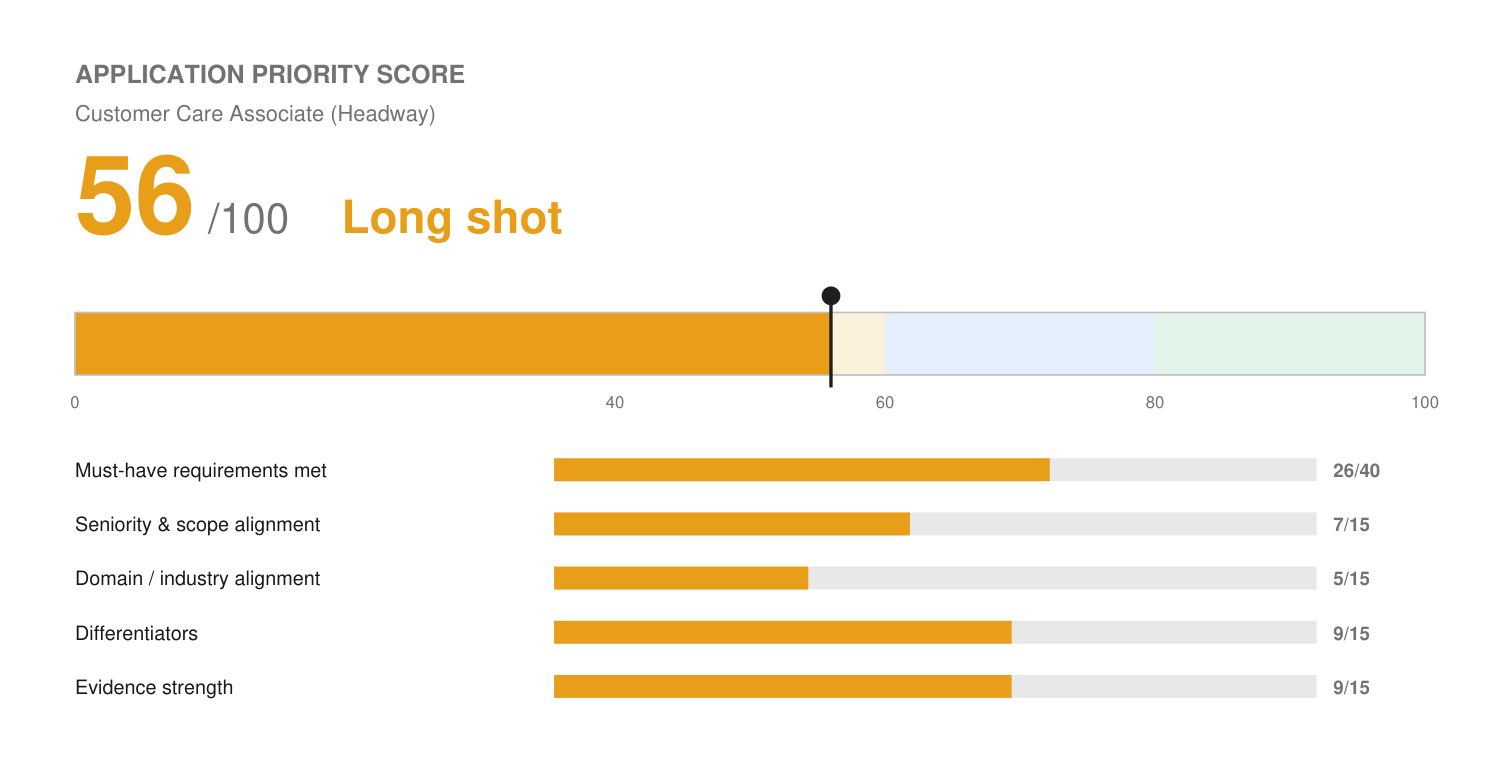
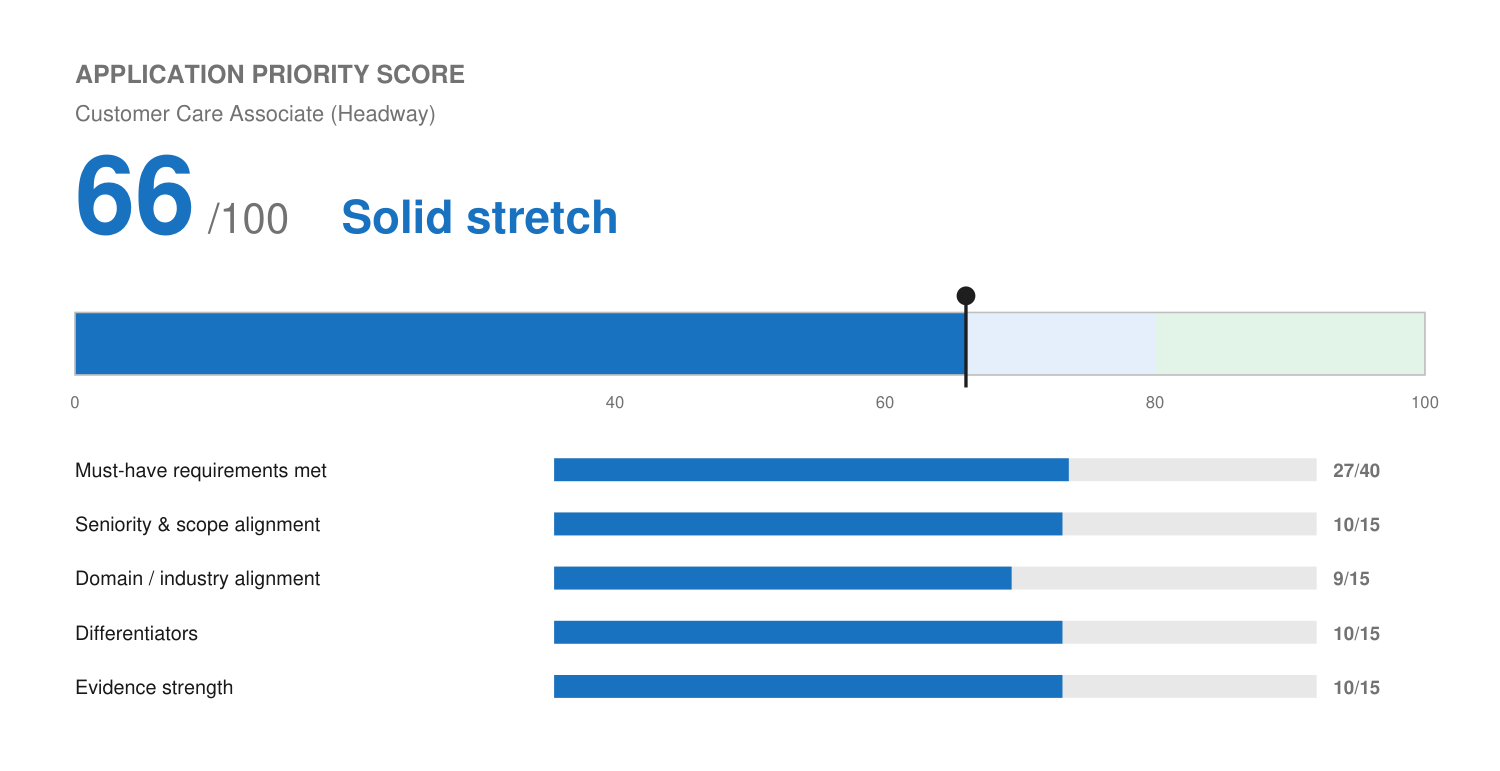
Correct master profile: Senior Directory is a healthcare directory; log ticket-volume comfort
Josh corrected two facts: Senior Directory (BDR, 2012-2016) was an online
healthcare business directory, giving him genuine prior healthcare-industry
exposure, and high-volume ticket/call/queue work is not a personal concern
given his BDR/AE calling background. Both are now recorded in
master-profile.md so future tailoring picks them up automatically.

Re-tailored the Headway application against the corrected profile: added
Senior Directory to the resume, updated the cover letter's healthcare
framing, and moved the fit score from 56 (long shot) to 66 (solid stretch).

Claude-Session: https://claude.ai/code/session_01UUTNhDEKkqfHCsStddFPAS

diff --git a/applications/headway-customer-care-associate/match-report.md b/applications/headway-customer-care-associate/match-report.md
@@ -4,7 +4,17 @@
 **Company:** Headway
 **Location / Mode:** Remote, USA
 **Pay:** $54,000–$80,000/year
-**Date:** September 7, 2026
+**Date:** September 7, 2026 (updated same day after two profile corrections from Josh)
+
+---
+
+## Update note
+
+After the first pass, Josh corrected two things that materially change this report:
+1. Senior Directory (BDR, 2012–2016) was an online **healthcare business directory**, not a generic directory. This is genuine prior healthcare-industry exposure and is now on the resume and reflected below.
+2. High-volume ticket/queue work is explicitly **not a concern** for him, he's run comparable outbound-calling and warm-lead volume in prior BDR/AE roles. The earlier "worth being honest with yourself" scope flag is resolved and removed as a personal-comfort concern (the underlying seniority/scope observation below is a different, structural point, not a comfort question).
+
+Score moved from 56 ("Long shot") to 66 ("Solid stretch") as a result. Both corrections have also been logged in the master profile so they apply automatically to future applications (this one already reflects that, OneImaging's healthcare gap could be revisited too if you want it redone).
 
 ---
 
@@ -13,33 +23,31 @@
 | Item | Classification | Notes |
 | :--- | :--- | :--- |
 | Remote, all US locations | Resume-evidenced | Matches your remote constraint. |
-| Weekend availability (Sat–Sun 8am–7pm ET coverage) | Resume-evidenced | Your profile already confirms evenings/weekends/holidays are acceptable for the right role. No conflict. |
+| Weekend availability (Sat–Sun 8am–7pm ET coverage) | Resume-evidenced | Confirmed acceptable per your standing profile note; also comfortable with the volume/pace itself. |
 | Quiet, private workspace with high-speed internet | Application-form requirement | Standard attestation; no known issue. |
 | E-Verify | Application-form requirement | Standard; no known issue. |
-| Healthcare interest or prior experience | Gap (experience); genuine interest expressed honestly | No healthcare/insurance experience anywhere in the profile. The cover letter states this plainly and leads with genuine interest in the mission rather than manufacturing experience. |
-| Seniority vs. role scope | **Worth being honest with yourself about** | This is a genuinely entry-level, individual-ticket support role (~40 inquiries/day via queue). You have 15+ years and founder-level experience. This isn't a labeling quirk like some recent postings, the scope really is entry-level. Decide now whether you're comfortable with that day-to-day reality if it leads to an offer. |
+| Healthcare industry exposure | **Resume-evidenced (dated)** | Senior Directory (2012–2016) was an online healthcare business directory. Real, but BDR-level and over a decade old, not clinical, insurance, or health-data experience. Represented honestly in the resume and cover letter as prior exposure, not current expertise. |
+| Seniority vs. role scope | Structural note, not a comfort concern | You're comfortable with the volume and pace. The structural point still stands: this role is built around anonymous ticket-queue resolution rather than named-account ownership, a different shape of work than most of your career, even if not a harder one. Worth knowing going in, not a reason to hesitate. |
 
-**No hard eligibility failure found.** No cap applied. This is a legitimate application, just a lower-probability one due to scope and domain, not a knockout.
+**No hard eligibility failure found.** No cap applied.
 
 ---
 
 ## Application Priority Score
 
-🟡 **56 / 100 — Long shot**
-`[███████████░░░░░░░░░] 56%`
+🔵 **66 / 100 — Solid stretch**
+`[█████████████░░░░░░░] 66%`
 *Internal decision aid — not a prediction of Headway's ATS score or hiring decision.*
 
 | Dimension | Score | Max |
 | :--- | :--- | :--- |
-| Must-have requirements met | 26 | 40 |
-| Seniority & scope alignment | 7 | 15 |
-| Domain / industry alignment | 5 | 15 |
-| Differentiators / nice-to-haves | 9 | 15 |
-| Evidence strength | 9 | 15 |
+| Must-have requirements met | 27 | 40 |
+| Seniority & scope alignment | 10 | 15 |
+| Domain / industry alignment | 9 | 15 |
+| Differentiators / nice-to-haves | 10 | 15 |
+| Evidence strength | 10 | 15 |
 
 See `fit.png` for the visual meter.
-
-This is your lowest score among the roles you've actually been eligible for (distinct from SOPHiA GENETICS, which was a hard credential wall). Two things drag it down, and neither is a knockout: your background is relationship/portfolio-based account management, not high-volume ticket-queue support, and you have no healthcare industry experience. Per the scoring bands, this sits in "long shot" territory: apply if you're genuinely drawn to the mission or need volume in your pipeline, not because the odds are strong.
 
 ---
 
@@ -48,34 +56,33 @@ This is your lowest score among the roles you've actually been eligible for (dis
 **Strong matches:**
 - Technical troubleshooting and guided setup → Birdeye, Accelo, Solenzo
 - De-escalation / judgment under pressure → Accelo ("escalated issues to leadership early")
-- Goal-oriented, target-driven performance → Wix (120%/110% attainment)
+- Goal-oriented, target-driven, high-volume performance → Wix (120%/110% attainment), Senior Directory (high-volume daily outreach)
 - Proactively surfacing friction and proposing fixes → Birdeye (adoption-gap analysis and interventions)
 - Ownership mentality ("Act Like a Headway Owner") → genuine founder background
+- Prior healthcare-industry exposure → Senior Directory (online healthcare business directory)
 
 **Gaps:**
-- Healthcare/health insurance industry experience or exposure
-- High-volume, queue-based (~40/day) individual ticket support, as distinct from portfolio/account ownership
+- Recent or clinical/insurance-side healthcare experience (Senior Directory closes the "zero healthcare exposure" gap but doesn't make this current or deep)
 
 ---
 
 ## Top Strengths for This Role
 
-1. Genuine, non-performative ownership mentality from running your own business, which maps directly to Headway's stated "Act Like a Headway Owner" value.
+1. Genuine ownership mentality from running your own business, a direct match to Headway's "Act Like a Headway Owner" value.
 2. Real technical troubleshooting and guided-onboarding experience across multiple SaaS platforms.
-3. Track record of hitting daily/monthly volume targets (Wix), relevant to the ~40 inquiries/day expectation.
+3. Prior healthcare-industry exposure (Senior Directory) plus a confirmed track record of high daily volume, both of which speak directly to this role's actual day-to-day.
 
 ## Gaps
 
-- No healthcare industry background.
-- No prior high-volume ticket-queue support experience specifically (your support work has been within account relationships, not anonymous queue-based tickets).
+- No recent or clinical/insurance-side healthcare experience, Senior Directory is real but dated and BDR-level.
 
 ## Candidate Confirmation Needed
 
-- Comfort with the actual day-to-day of this role (queue-based, ~40 tickets/day, weekend shifts) at this stage of your career. Worth a gut check before applying, not something the resume can resolve.
+None outstanding.
 
 ## Metrics Needed
 
-- None critical; this application's ceiling is set by scope and domain fit, not missing numbers.
+- The specific call/lead-volume numbers you mentioned (100 calls/day or 15-20 warm leads/day) would be a strong addition if you can confirm which role and time period they're from. Logged in the master profile for `/excavate-profile` to pick up.
 
 ## Referral
 

diff --git a/profile/master-profile.md b/profile/master-profile.md
@@ -39,6 +39,11 @@
 >
 > **Non-standard schedules:** evenings, weekends, and holidays are acceptable for the right
 > role (confirmed Aug 2026 re: DCPA).
+>
+> **High-volume ticket/call/lead-queue work (confirmed Sep 2026):** not a concern. Josh has
+> run high-volume outbound calling and warm-lead workflows across BDR/AE roles; a queue-based
+> support role (e.g., ~40 tickets/day) is comparable, not a step down. Don't flag routine
+> ticket/call volume as a seniority or comfort concern in match reports.
 
 ## Education & Certifications
 
@@ -93,6 +98,8 @@
 | Fivestars | Account Executive | Denver, CO | 2017 – 2018 | Salesforce |
 | Senior Directory | Business Development Representative | Denver, CO | 2012 – 2016 | HubSpot |
 | Standing Akimbo | Co-Owner / Operations Lead | Denver, CO | Jun 2010 – Sep 2012 | — (pre-dates role's CRM use) |
+
+> **Senior Directory industry (confirmed by Josh, Sep 2026):** Senior Directory is an online healthcare business directory. This is genuine prior healthcare-industry exposure, useful for postings that ask for healthcare/health-tech background, though it's dated (2012-2016) BDR/prospecting work, not clinical, insurance-operations, or health-data experience. Represent it as prior healthcare-industry exposure, not as healthcare data, clinical, or insurance-operations expertise.
 
 > **CRM breadth (added Aug 2026, confirmed by Josh):** hands-on pipeline experience spans HubSpot (Level Agency, Fetch & Funnel, Senior Directory), Salesforce (Birdeye, Wix, Fivestars), GoHighLevel (Solenzo, primary), and Accelo's own proprietary CRM/PSA product (sold and implemented, not just used). This was missing from earlier versions of this profile, which underrepresented HubSpot/Salesforce depth in favor of the GoHighLevel-primary framing from Solenzo. Use the specific platform per role when tailoring to a JD that names a CRM.
 
@@ -252,7 +259,8 @@ defaults to "Dear ___," when that key is omitted, so it must be set every time.
 - Built the consultative approach to customer retention and technology adoption that carried into later SaaS roles.
 
 ### Senior Directory — Business Development Representative (2012 – 2016)
-- Prospected and qualified leads as a Business Development Representative, booking appointments for regional sales representatives and maintaining a steady flow of sales-ready meetings.
+> Senior Directory is an online healthcare business directory (confirmed by Josh, Sep 2026) — genuine prior healthcare-industry exposure, though dated BDR/prospecting work, not clinical or health-data experience.
+- Prospected and qualified leads for an online healthcare business directory as a Business Development Representative, booking appointments for regional sales representatives and maintaining a steady flow of sales-ready meetings.
 - Built the outreach, qualification, and pipeline fundamentals that carried into later SaaS Account Executive roles.
 
 ### Standing Akimbo — Co-Owner / Operations Lead (Jun 2010 – Sep 2012)
@@ -342,6 +350,12 @@ with its scope and delete the line here.
 - **Solenzo portfolio size.** How many clients, and typical retainer range.
 - **Level Agency accounts.** Portfolio size and spend under management.
 - **Accelo implementation scope.** Typical implementation size in seats or hours.
+
+**Newly flagged (Sep 2026):**
+- **Daily call/lead volume comparison** (self-reported, role/timeframe unconfirmed): ~100
+  calls/day or 15-20 warm leads/day, used by Josh as a comparison point for ticket/queue
+  volume comfort. Needs role attribution (which job, what period) before it can be used as
+  a resume metric rather than background color.
 
 **Rules for filling these:** the number comes from Josh, never from inference. Ranges are
 acceptable and should be recorded as ranges. Anything he is unsure of gets tagged
